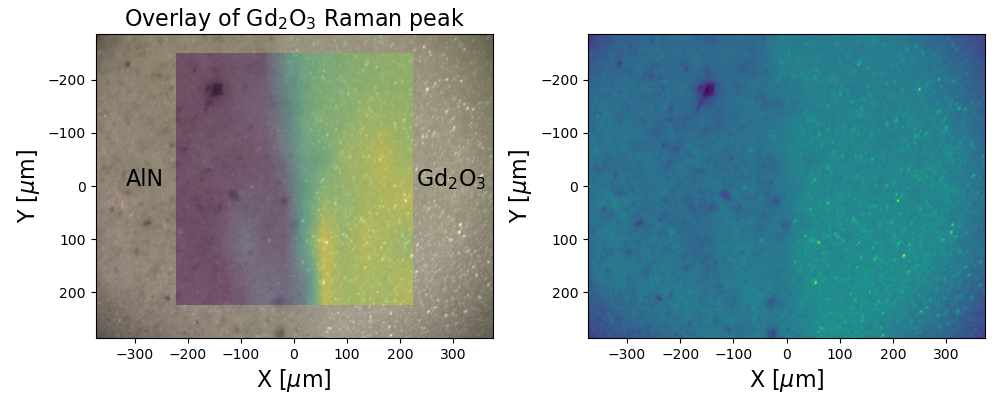
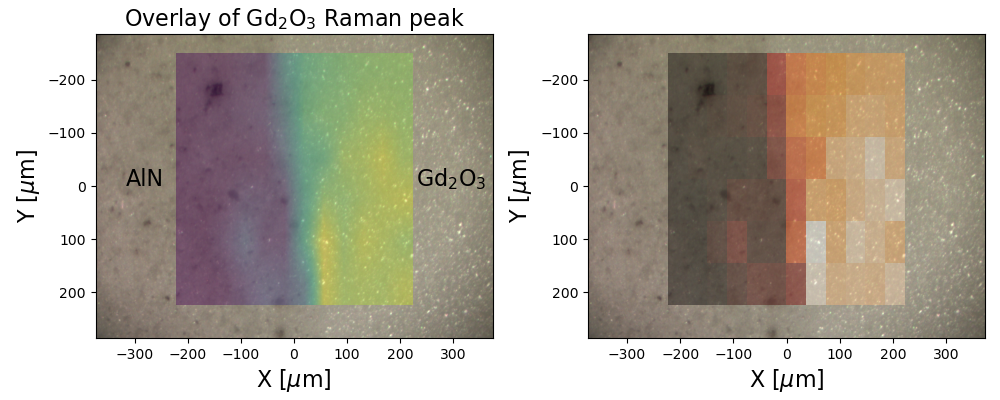
Updated figure and added helper function

Changed region(s): [[0.589, 0.09, 0.992, 0.87]]

diff --git a/src/horiba_raman_ccoverstreet/mapping.py b/src/horiba_raman_ccoverstreet/mapping.py
@@ -3,11 +3,16 @@ import matplotlib.pyplot as plt
 import os
 from PIL import Image
 
-def parse_image(filename):
+def parse_image_txt(filename):
     """Parses the gray-scale image saved in .txt format as saved from the "Video" tab in LabSpec6
 
     Params: 
     - filename: path to txt file containing gray-scale image data and X/Y positions of pixels
+
+    Returns:
+    - Numpy array (M) of x pixel positions
+    - Numpy array (M) of y pixel positions
+    - Numpy array (MxN) of gray-scale intensity values
     """
 
     with open(filename, encoding="latin-1") as f:
@@ -31,11 +36,38 @@ def parse_image(filename):
     return np.flip(np.array(x)), np.flip(np.array(y)), np.flip(np.array(vals))
 
 
+def parse_image_comb(bmp_filename, txt_filename):
+    """Returns PIL Image object with corresponding extends from .txt version of the image
+
+    Params:
+    - bmp_filename: Filename of the .bmp file taken from the LabSpec6 video feed
+    - txt_filename: Filename of the .txt file taken from the LabSpec7 video feed
+
+    Returns:
+    - img: PIL Image object for use with matplotlib.pyplot.imshow
+    - extent: Extents for use with matplotlib.pyplot.imshow"""
+
+    x, y, gray = parse_image_txt(txt_filename)
+    print(x)
+
+    print(x[0], x[-1])
+    extent = (x[0], x[-1], y[-1], y[0])
+    
+    img = Image.open(bmp_filename)
+
+    return img, extent
+
+
 def parse_data_txt(filename):
     """Parses the .txt version of the l6m file when saving in the browser tab or map tab with the spectral window highlighted
 
     Params: 
     - filename: path to txt file version of l6m file
+
+    Returns:
+    - 1D array containing Raman shift (cm^-1) bins
+    - 2D array containing (x, y) positions
+    - 2D array with each row containing the counts for a given position
     """
     with open(filename, encoding="latin-1") as f:
         shift = None
@@ -57,7 +89,8 @@ def extra_spectra_to_files(filename, dirname="extracted-spectra"):
     """Extracts all raman spectra to a subdirectory from the .txt version of the l6m map file. The spatial position of spectra is included in extracted filename.
 
     Params:
-    - filename: path to txt file version of l6m file"""
+    - filename: path to txt file version of l6m file
+    """
     os.makedirs(dirname, exist_ok=True)
     shift, pos, counts = parse_data_txt(filename)
 
@@ -68,10 +101,53 @@ def extra_spectra_to_files(filename, dirname="extracted-spectra"):
         np.savetxt(f"{dirname}/{name}", stack)
 
 
+def determine_rectangular_map_dim(pos):
+    """Guesses the dimensions of a set of positions assuming the map is rectangular
+
+    Params:
+    - pos: 2d array with each row corresponding to an (X,Y) spectral position
+    
+    Returns:
+    - tuple (M, N) containig the shape of the rectangular map
+    """
+
+    T = len(pos)
+   
+    v0 = pos[0][1]
+    count = 0
+    for i, p in enumerate(pos):
+        if p[1] != v0:
+            break
+
+        count += 1
+
+    return (T // count, count)
+
+        
+
 def extract_max_from_range(x, y, x_min, x_max):
     start = np.argmax(x > x_min)
     end = np.argmax(x > x_max)
 
     return np.max(y[start:end])
 
+def extract_extent_from_pos_rect(pos, dim):
+    """Extracts the extents from a given set of positions assuming rectangular grid
+
+    Params:
+    - pos: 2d array with each row correspodning to an (X,Y) spectral position
+    - dim: Dimensions of the rectangular grid
+
+    Returns:
+    - tuple of (left, right, bottom, top)
+    """
+
+    x_min = pos[0][0]
+    x_max = pos[-1][0]
+    y_min = pos[-1][1]
+    y_max = pos[0][1]
+    dx = np.abs(pos[0][0] - pos[1][0])
+    dy = np.abs(pos[0][1] - pos[dim[1]][1])
+
+    return (x_min - dx / 2, x_max + dx/2, y_min + dy/2, y_max - dy/2)
 

diff --git a/src/example/example.py b/src/example/example.py
@@ -3,54 +3,49 @@ import numpy as np
 from PIL import Image
 import matplotlib.pyplot as plt
 
-if __name__ == "__main__":
-    #extra_spectra_to_files("Gd2O3_AlN_map_data.txt")
 
-    x, y, intensity = mapping.parse_image("Gd2O3_AlN_map.txt")
-    shift, pos, counts = mapping.parse_data_txt("Gd2O3_AlN_map_data.txt")
+img, extent_camera = mapping.parse_image_comb("Gd2O3_AlN_map.bmp", "Gd2O3_AlN_map.txt")
+shift, pos, counts = mapping.parse_data_txt("Gd2O3_AlN_map_data.txt")
 
+dim = mapping.determine_rectangular_map_dim(pos)
+extent = mapping.extract_extent_from_pos_rect(pos, dim)
 
-    maxes = []
-    for i, c in enumerate(counts):
-        m = mapping.extract_max_from_range(shift, c, 300, 400)
-        print(i, pos[i], m)
-        maxes.append(m)
+# Create an array and reshape based on rectangular mesh
+# of peak maxes corresponding to Gd2O3
+maxes = []
+for c in counts:
+    m = mapping.extract_max_from_range(shift, c, 300, 500)
+    maxes.append(m)
 
-    maxes = np.array(maxes)
-    max_map = np.reshape(maxes, (6, 12))
-    print(max_map)
+maxes = np.reshape(np.array(maxes), dim)
+print(maxes)
 
+# Throw everything into a plot to taste
+plt.figure(figsize=(10, 4))
+plt.subplot(121)
+plt.title(r"Overlay of Gd$_2$O$_3$ Raman peak", fontsize=16)
+plt.imshow(img, extent=extent_camera)
+plt.imshow(maxes, extent=extent, alpha=0.4, interpolation="bilinear")
+plt.annotate("AlN", (-280, 0), fontsize=16, ha="center")
+plt.annotate(r"Gd$_2$O$_3$", (295, 0), fontsize=16, ha="center")
+print(extent_camera)
+plt.xlim(extent_camera[0], extent_camera[1])
+plt.ylim(extent_camera[2], extent_camera[3])
+plt.xlabel(r"X [$\mu$m]", fontsize=16)
+plt.ylabel(r"Y [$\mu$m]", fontsize=16)
 
-    img = Image.open("Gd2O3_AlN_map.bmp")
-    #plt.imshow(np.flip(intensity), extent=(x[0], x[-1], y[-1], y[0]))
-    dx = np.abs(pos[0][0] - pos[1][0])
-    dy = np.abs(pos[0][1] - pos[13][1])
-    print(pos[0], pos[13])
+plt.subplot(122)
+plt.imshow(img, extent=extent_camera, cmap=plt.get_cmap("gist_grey"))
+plt.imshow(maxes, extent=extent, alpha=0.4, cmap=plt.get_cmap("gist_heat"))
+plt.xlim(extent_camera[0], extent_camera[1])
+plt.ylim(extent_camera[2], extent_camera[3])
 
-    plt.figure(figsize=(10, 4))
-    plt.subplot(121)
-    plt.title(r"Overlay of Gd$_2$O$_3$ Raman peak", fontsize=16)
-    plt.imshow(img, extent=(x[0], x[-1], y[-1], y[0]))
-    plt.imshow(max_map, extent=(pos[0][0]-dx/2, pos[-1][0] + dx/2, pos[-1][1] + dy/2, pos[0][1] - dy/2), alpha=0.4, interpolation="bilinear")
-    plt.annotate("AlN", (-280, 0), fontsize=16, ha="center")
-    plt.annotate(r"Gd$_2$O$_3$", (295, 0), fontsize=16, ha="center")
-    plt.xlim(x[0], x[-1])
-    plt.ylim(y[-1], y[0])
-    plt.xlabel(r"X [$\mu$m]", fontsize=16)
-    plt.ylabel(r"Y [$\mu$m]", fontsize=16)
+plt.xlabel(r"X [$\mu$m]", fontsize=16)
+plt.ylabel(r"Y [$\mu$m]", fontsize=16)
 
-    plt.subplot(122)
-    plt.imshow(img, extent=(x[0], x[-1], y[-1], y[0]))
-    plt.imshow(intensity, extent=(x[0], x[-1], y[-1], y[0]))
-    #plt.imshow(max_map, extent=(pos[0][0]-dx/2, pos[-1][0] + dx/2, pos[-1][1] + dy/2, pos[0][1] - dy/2), alpha=0.4, interpolation="bilinear")
-    plt.xlim(x[0], x[-1])
-    plt.ylim(y[-1], y[0])
+plt.tight_layout()
 
-    plt.xlabel(r"X [$\mu$m]", fontsize=16)
-    plt.ylabel(r"Y [$\mu$m]", fontsize=16)
+plt.savefig("Raman_mapping_postprocessing_demo.png")
+plt.show()
 
-    plt.tight_layout()
-
-    plt.savefig("Raman_mapping_postprocessing_demo.png")
-    plt.show()
 
